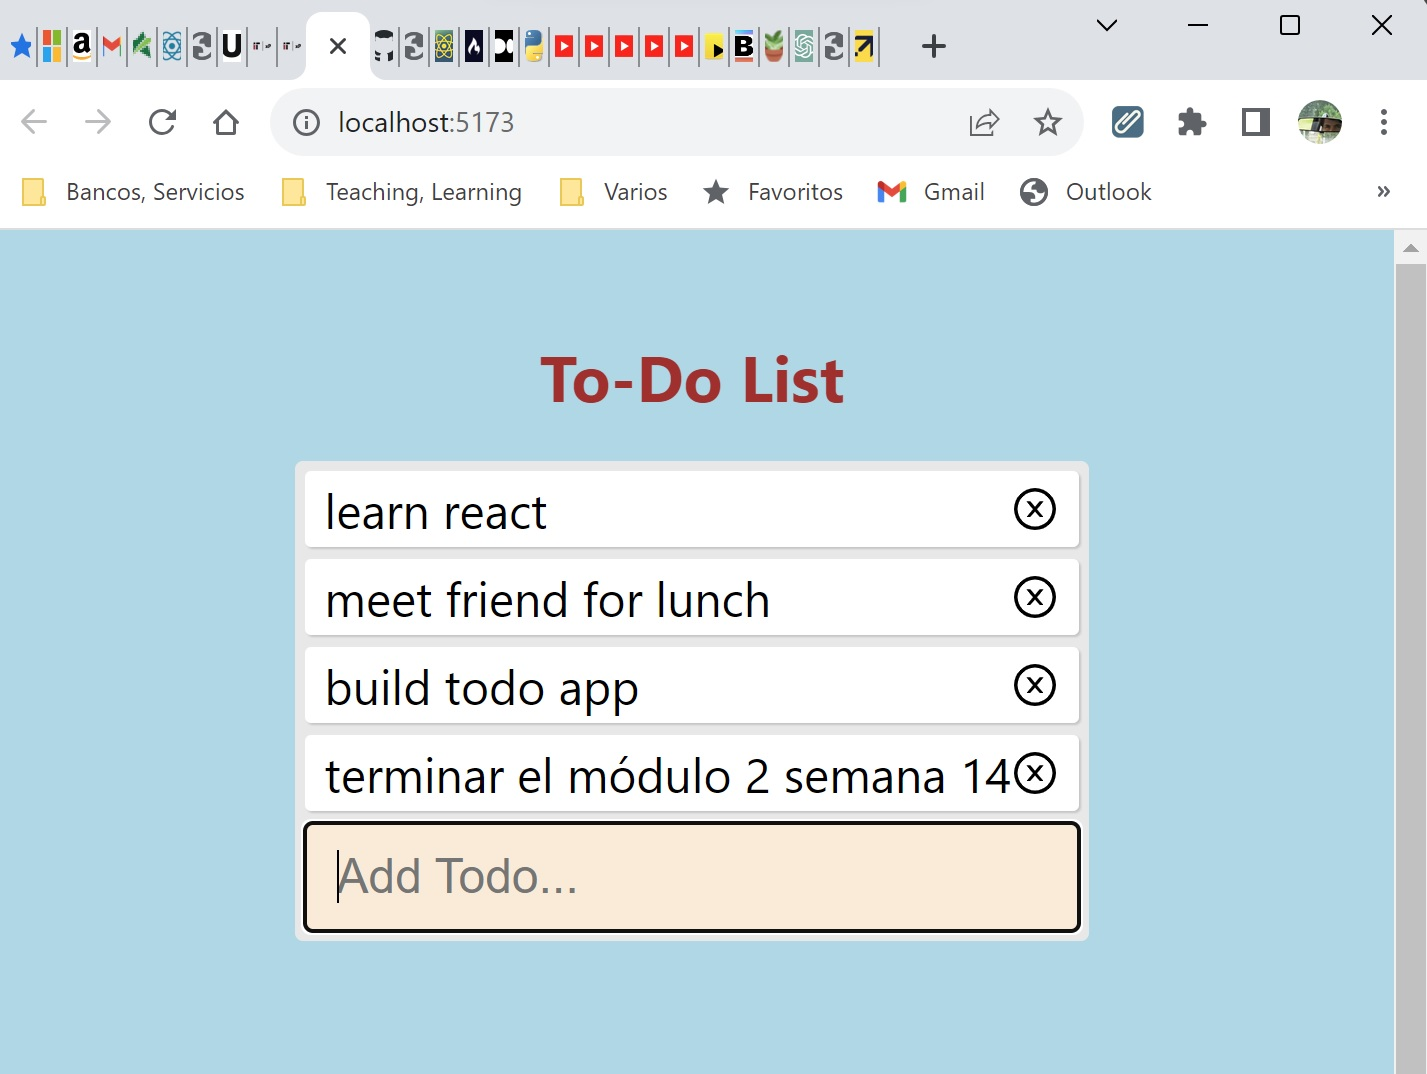
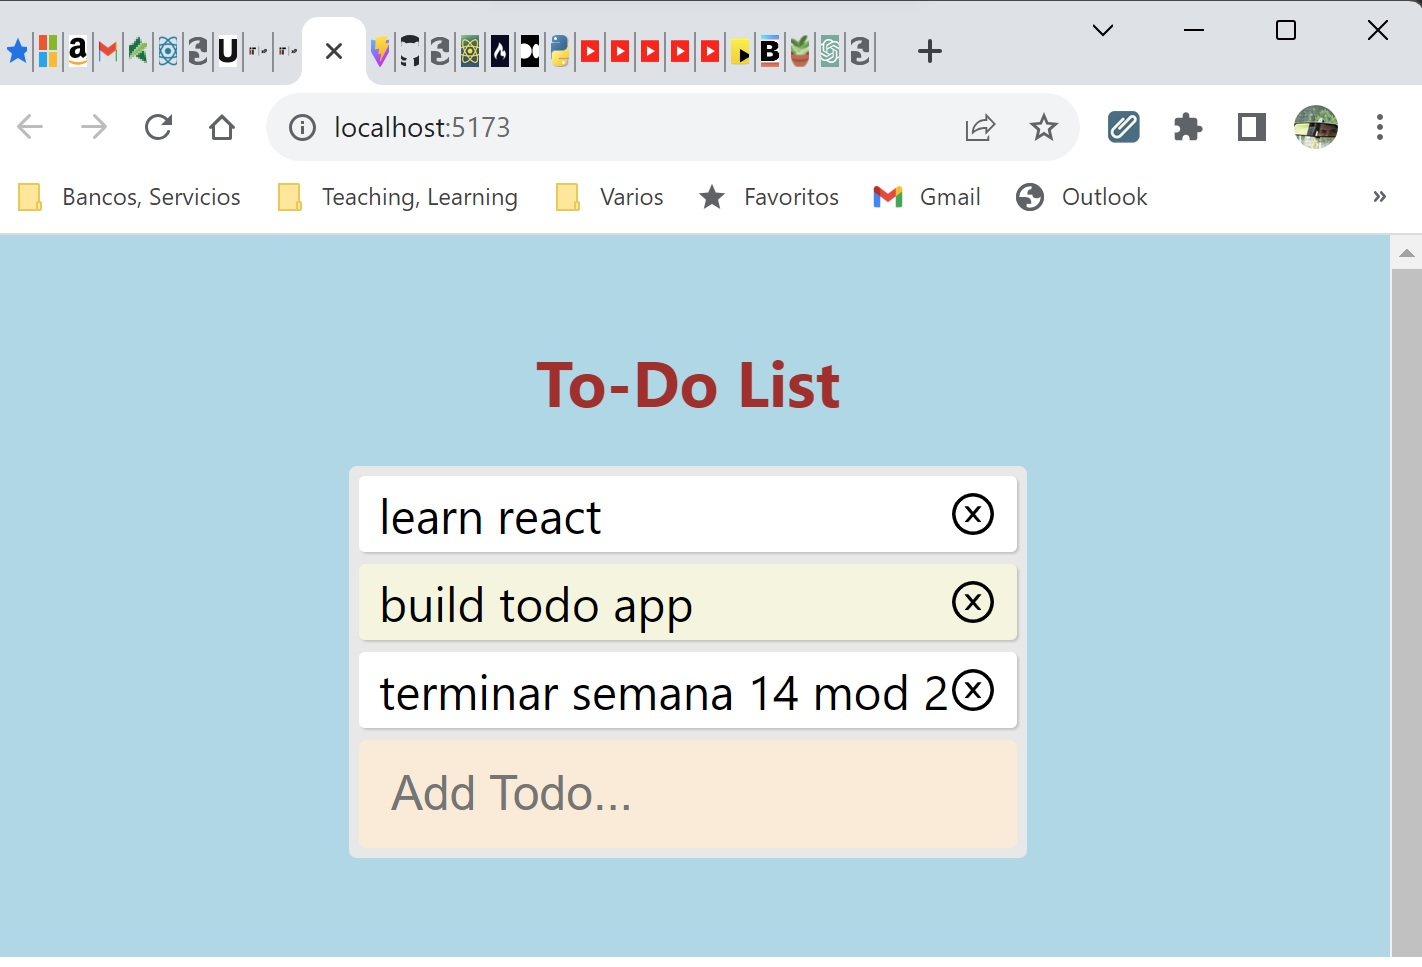
upd imágen y efecto hover en tarea a eliminar

diff --git a/src/index.css b/src/index.css
@@ -48,6 +48,10 @@ code {
   justify-content: space-between;
 }
 
+.todo:hover {
+  background-color: beige;
+}
+
 .input{
   background-color: antiquewhite;
   width: 100%;
